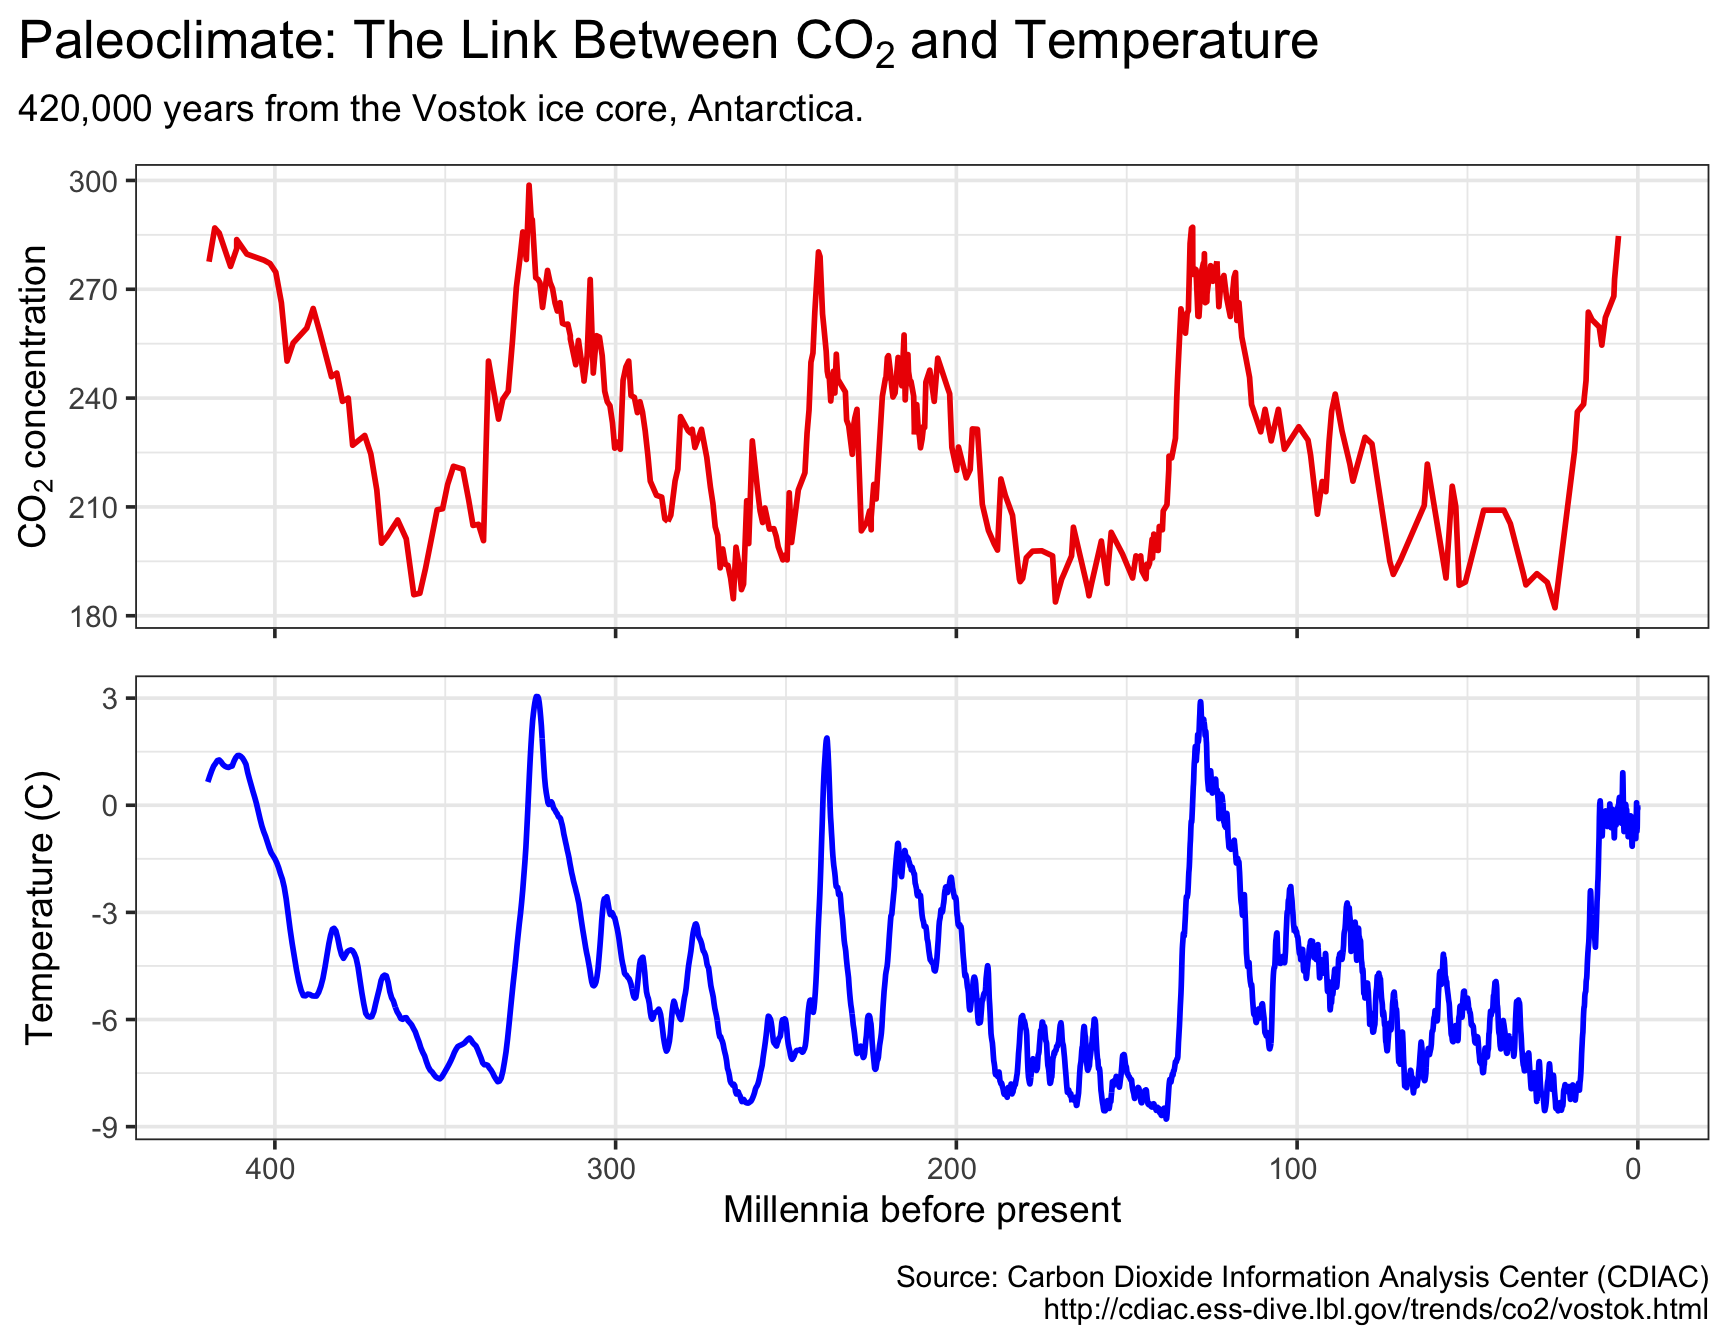
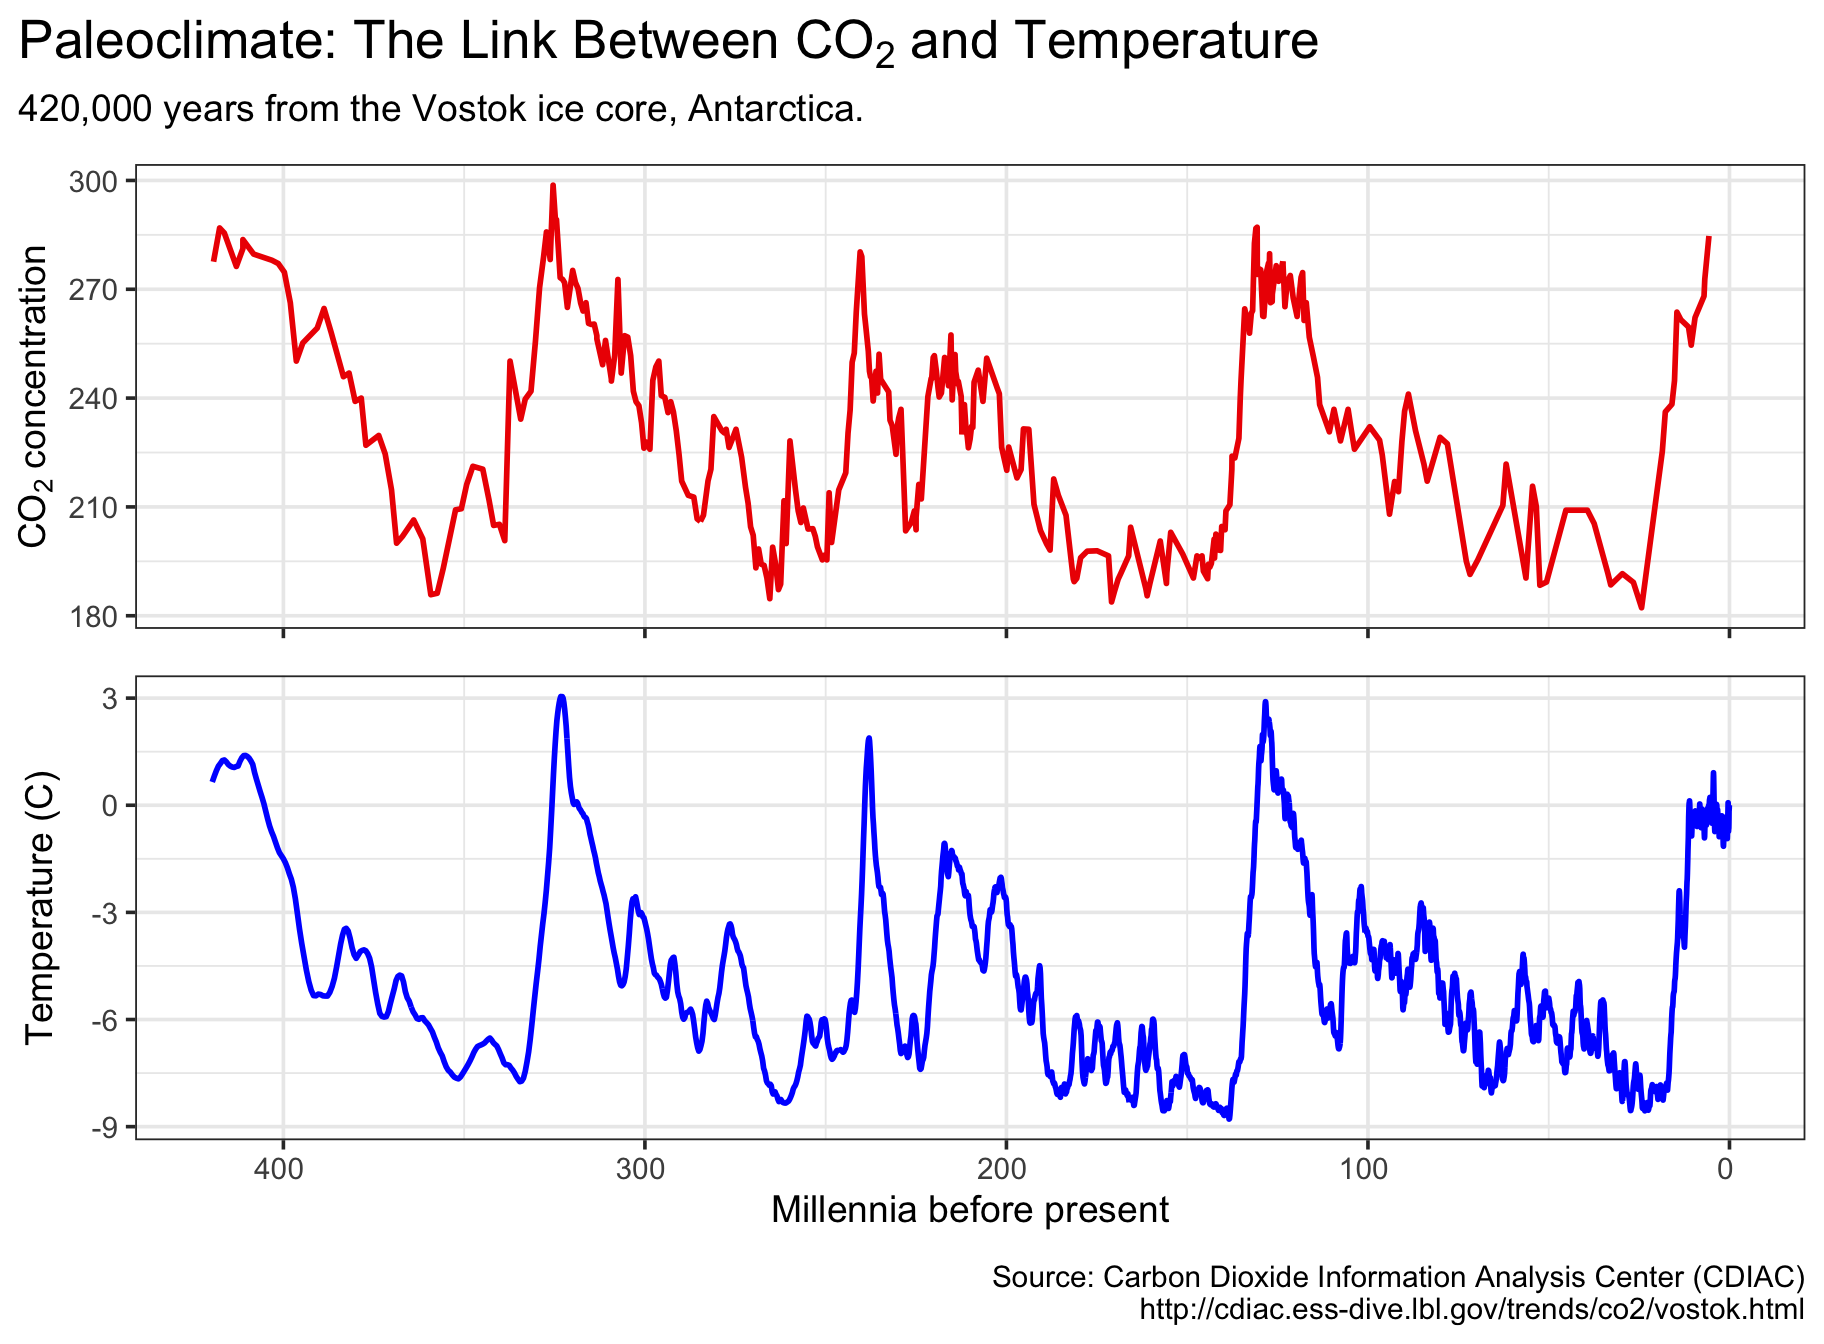
Adj fig widths

diff --git a/content/post/2018-11-16-the-top-five-climate-charts-using-ggplot2.html b/content/post/2018-11-16-the-top-five-climate-charts-using-ggplot2.html
@@ -45,7 +45,7 @@ b &lt;- ggplot(paleotemp,aes(x=age_ice,y=temp)) +geom_line(aes(y=rollmean(temp, 
 
 (c &lt;- a / b + plot_annotation(title = expression(&#39;Paleoclimate: The Link Between &#39;*CO[2]*&#39; and Temperature&#39;), caption = &#39;Source: Carbon Dioxide Information Analysis Center (CDIAC)\nhttp://cdiac.ess-dive.lbl.gov/trends/co2/vostok.html&#39;,
       subtitle=&#39;420,000 years from the Vostok ice core, Antarctica.&#39;, theme = theme(  plot.title = element_text(size = 20))))</code></pre>
-<p><img src="/post/2018-11-16-the-top-five-climate-charts-using-ggplot2_files/figure-html/icecore-1.png" width="864" /></p>
+<p><img src="/post/2018-11-16-the-top-five-climate-charts-using-ggplot2_files/figure-html/icecore-1.png" width="912" /></p>
 </div>
 <div id="data-set-2-the-anthropogenic-rise-in-co2-concentration" class="section level2">
 <h2>Data Set #2: The Anthropogenic Rise in CO<sub>2</sub> Concentration</h2>
@@ -59,7 +59,7 @@ maunaloa$date &lt;- as.Date(as.yearmon(paste(maunaloa$year, maunaloa$month, sep=
   scale_x_date(name=NULL, date_breaks=&#39;10 years&#39;, lim=c(ymd(&#39;1963-01-01&#39;), ymd(&#39;2020-01-01&#39;)), date_labels=&#39;%Y&#39;) +scale_y_continuous(lim=c(300, 410), breaks=seq(300, 400, 20)) +
   geom_line(aes(y=trend), size=1, col=&#39;red2&#39;) +labs(title=expression(&#39;Rising Atmospheric &#39;*CO[2]*&#39; (Keeling Curve)&#39;), subtitle=expression(&#39;Mauna Loa &#39;*CO[2]*&#39; monthly mean ppm&#39;),
   y=expression(CO[2]*&#39; concentration in air&#39; ), caption=&#39;Source: NOAA/ESRL and Scripps Institution of Oceanography.\nhttps://www.esrl.noaa.gov/gmd/ccgg/trends/data.html&#39;))</code></pre>
-<p><img src="/post/2018-11-16-the-top-five-climate-charts-using-ggplot2_files/figure-html/keeling-1.png" width="864" /></p>
+<p><img src="/post/2018-11-16-the-top-five-climate-charts-using-ggplot2_files/figure-html/keeling-1.png" width="912" /></p>
 </div>
 <div id="data-set-3-rising-global-temperatures" class="section level2">
 <h2>Data Set #3: Rising Global Temperatures…</h2>
@@ -78,7 +78,7 @@ gisstemp$annmean &lt;- as.numeric(gisstemp$annmean)
   labs(title=&#39;Global Land-Ocean Temperature Index (LOTI)&#39;, subtitle=&#39;Global surface temperature relative to 1951-1980 average&#39;,
   y=&#39;Temperature Anomaly (C)&#39;, caption=&#39;Source: NASA Goddard Institute for Space Studies\nhttps://data.giss.nasa.gov/gistemp/&#39;) +
   scale_color_manual(name=NULL, values=c(&#39;blue&#39;,&#39;red2&#39;)) +theme(legend.position = c(0.15,0.85),legend.background=element_blank()))</code></pre>
-<p><img src="/post/2018-11-16-the-top-five-climate-charts-using-ggplot2_files/figure-html/temperature-1.png" width="864" /></p>
+<p><img src="/post/2018-11-16-the-top-five-climate-charts-using-ggplot2_files/figure-html/temperature-1.png" width="912" /></p>
 </div>
 <div id="data-set-4-and-the-rising-sea-level" class="section level2">
 <h2>Data Set #4: …And the Rising Sea Level</h2>
@@ -109,7 +109,7 @@ gmsl &lt;- gather(gmsl, key=method, value=gmsl, -date, na.rm=T)
   scale_color_manual(values=c(&#39;blue&#39;,&#39;red2&#39;),labels=c(&#39;Satellite observations&#39;,&#39;Coastal tide gauge records&#39;)) +theme(legend.position = c(0.20,0.80),legend.background=element_blank(),legend.title = element_blank()) +
   scale_y_continuous(breaks=seq(-200,75,25)) +
   labs(title=&#39;Sea Level Change&#39;, subtitle=&#39;Tide gauges: 1880-2009; Satellite: 1992-2018, calibrated to 1993 tide gauge average.&#39;, y=&#39;Variation (mm)&#39;, caption=&#39;Sources: University of Colorado Sea Level Research Group (sat)\nhttp://sealevel.colorado.edu/\nCSIRO (tide gauge)\nhttp://www.cmar.csiro.au/sealevel/sl_data_cmar.html&#39;))</code></pre>
-<p><img src="/post/2018-11-16-the-top-five-climate-charts-using-ggplot2_files/figure-html/sealevel-1.png" width="864" /></p>
+<p><img src="/post/2018-11-16-the-top-five-climate-charts-using-ggplot2_files/figure-html/sealevel-1.png" width="912" /></p>
 </div>
 <div id="data-set-5-polar-sea-ice-in-retreat" class="section level2">
 <h2>Data Set #5: Polar Sea Ice in Retreat</h2>
@@ -122,7 +122,7 @@ arctic_ice_min$year &lt;- round_date(date_decimal(arctic_ice_min$year), &#39;yea
   scale_x_datetime(name=NULL, breaks=&#39;5 years&#39;, date_labels=&#39;%Y&#39;, lim=c(ymd_hms(&#39;1978-01-01 00:00:00&#39;), ymd_hms(&#39;2020-01-01 00:00:00&#39;))) +
   scale_y_continuous(lim=c(3,8)) + geom_smooth(method=&#39;lm&#39;, se=F, linetype=2, size=0.5) +
   labs(title=&#39;Arctic Sea Ice Minimum&#39;, subtitle=&#39;September average sea ice extent. Linear regression line in blue.&#39;, y=&#39;million square km&#39;, caption=&#39;Source: National Snow &amp; Ice Data Center\nhttps://nsidc.org/data/seaice_index\nftp://sidads.colorado.edu/DATASETS/NOAA/G02135/north/monthly/data/N_09_extent_v3.0.csv&#39;))</code></pre>
-<p><img src="/post/2018-11-16-the-top-five-climate-charts-using-ggplot2_files/figure-html/iceextent-1.png" width="864" /></p>
+<p><img src="/post/2018-11-16-the-top-five-climate-charts-using-ggplot2_files/figure-html/iceextent-1.png" width="912" /></p>
 </div>
 </div>
 <div id="pulling-it-all-together-with-patchwork" class="section level1">
